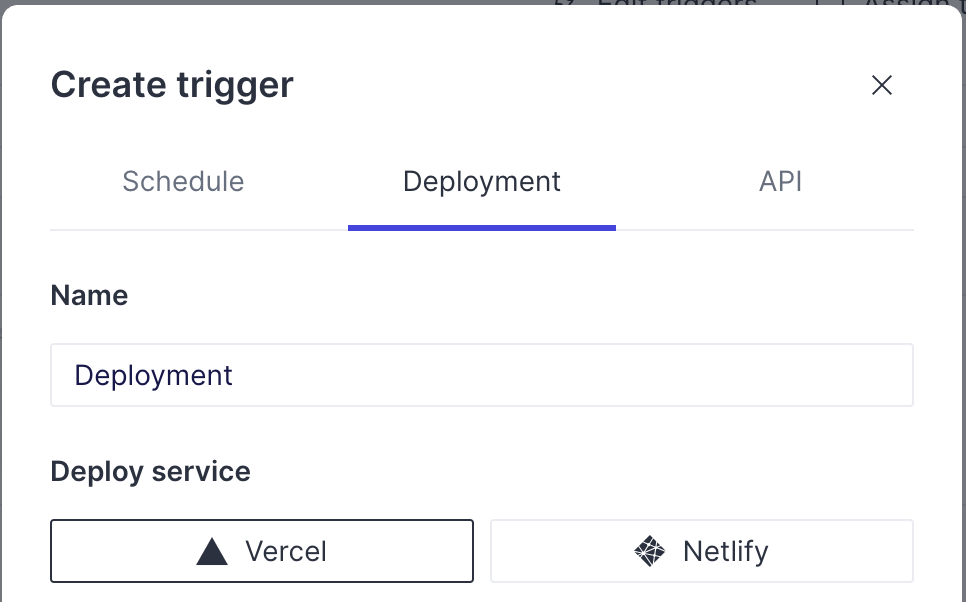
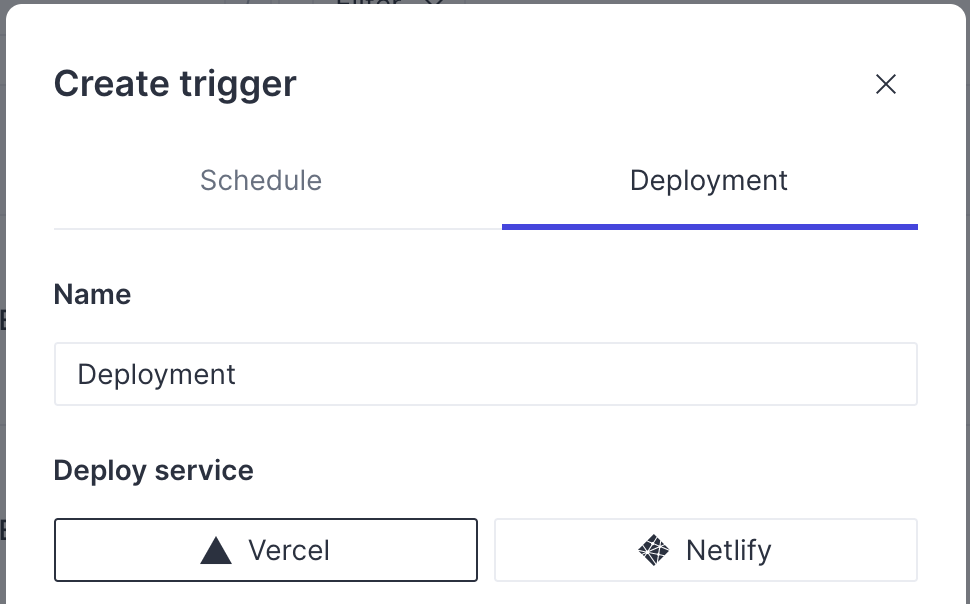
update vercel doc

diff --git a/app/components/Docs/InstallGitHubApp.tsx b/app/components/Docs/InstallGitHubApp.tsx
@@ -12,14 +12,14 @@ export default function InstallGitHubApp({ service }: Props): JSX.Element {
       {service === "vercel" && (
         <>
           <p>
-            {`Select the "Deployment" tab in the middle, and choose ${capitalizedService} as your
+            {`Select the "Deployment" tab on the right, and choose ${capitalizedService} as your
         deploy service. You can also optionally rename your trigger.`}
           </p>
           <Image
             alt="Create deploy trigger"
             height={301}
             src={`/docs/run-tests-on-${service}-deployment/create-deploy-trigger.png`}
-            width={483}
+            width={485}
           />
         </>
       )}
@@ -36,9 +36,9 @@ export default function InstallGitHubApp({ service }: Props): JSX.Element {
       )}
       <Image
         alt="Connect GitHub repository"
-        height={service === "vercel" ? 321 : 83}
+        height={service === "vercel" ? 171 : 83}
         src={`/docs/run-tests-on-${service}-deployment/github-repo.png`}
-        width={service === "vercel" ? 400 : 491}
+        width={service === "vercel" ? 485 : 491}
       />
       <p>
         A new tab will open and visit GitHub. You will be asked to choose the

diff --git a/app/components/Docs/ChooseTags.tsx b/app/components/Docs/ChooseTags.tsx
@@ -1,0 +1,18 @@
+import Image from "./Image";
+
+export default function ChooseTags(): JSX.Element {
+  return (
+    <>
+      <p>
+        You can choose to run all your tests on a schedule, or only tests with
+        specific tags.
+      </p>
+      <Image
+        alt="Choose tags"
+        height={126}
+        src="/docs/run-tests-on-a-schedule/choose-tags.png"
+        width={488}
+      />
+    </>
+  );
+}
